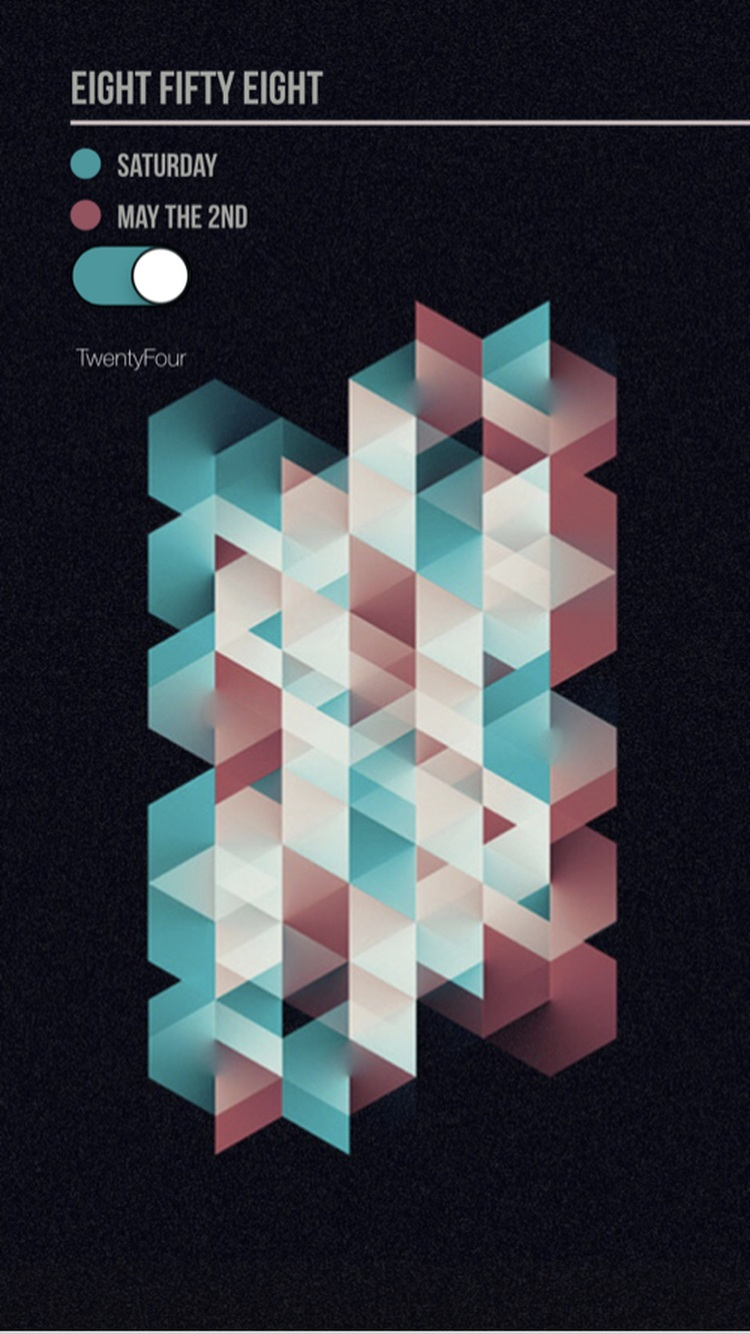
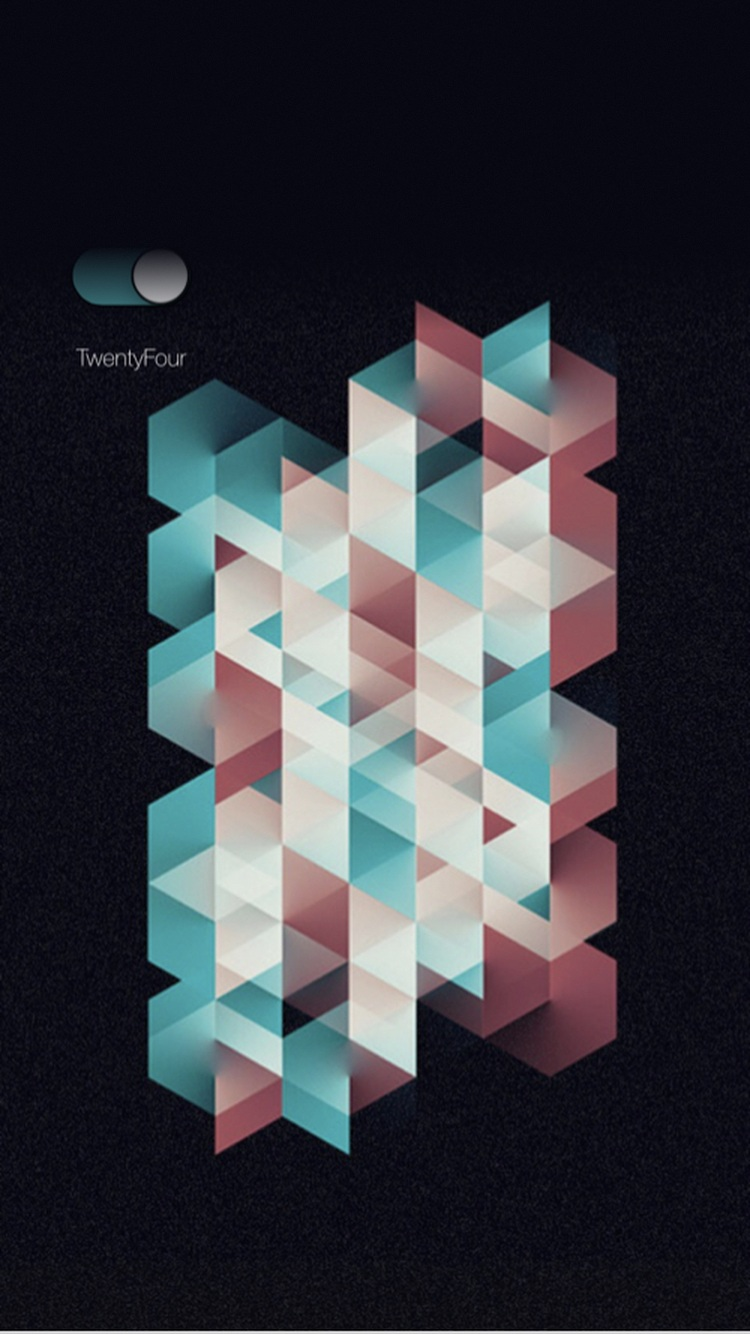
Remove baked-in header from Geometric wallpaper

Changed region(s): [[0.092, 0.0307, 0.4293, 0.2459], [0.7053, 0.2151, 0.736, 0.2459], [0.552, 0.2151, 0.5827, 0.2459]]

diff --git a/tools/clean_geometric_wallpaper_header.py b/tools/clean_geometric_wallpaper_header.py
@@ -1,0 +1,25 @@
+from PIL import Image, ImageDraw
+from pathlib import Path
+import random
+
+src = Path('/home/ubuntu/upload/IMG_0280.jpeg')
+out = Path('/home/ubuntu/lockplus15-rootless/themes/folder-themes/geometric-twenty-four/wallpaper.jpg')
+image = Image.open(src).convert('RGB').crop((68, 22, 568, 911)).resize((750, 1334), Image.Resampling.LANCZOS)
+width, height = image.size
+pixels = image.load()
+rng = random.Random(2408)
+header_end = 330
+for y in range(header_end):
+    # Match the dark lock-screen tone and fade cleanly into the untouched artwork.
+    fade = max(0.0, min(1.0, (y - 245) / 85.0))
+    base = (7, 8, 17)
+    for x in range(width):
+        texture = rng.choice((-2, -1, 0, 0, 0, 1, 2))
+        original = pixels[x, y]
+        if fade < 1.0:
+            target = tuple(max(0, min(255, base[i] + texture)) for i in range(3))
+            pixels[x, y] = tuple(int(target[i] * (1.0 - fade) + original[i] * fade) for i in range(3))
+        else:
+            pixels[x, y] = tuple(max(0, min(255, base[i] + texture)) for i in range(3))
+image.save(out, 'JPEG', quality=94, optimize=True, progressive=True)
+print(out, image.size, out.stat().st_size)
